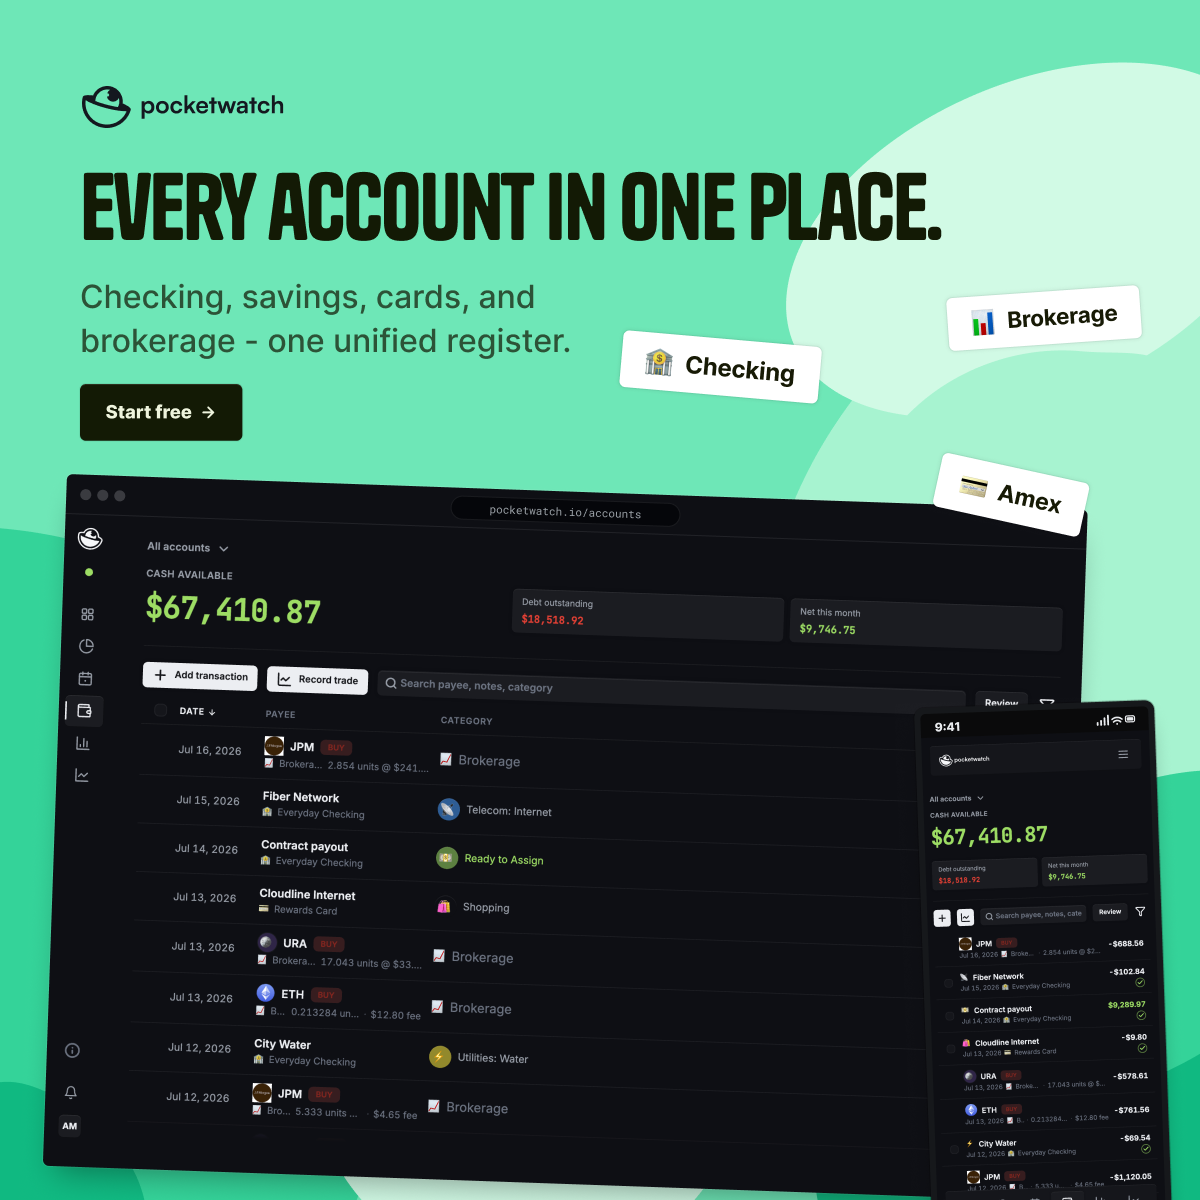
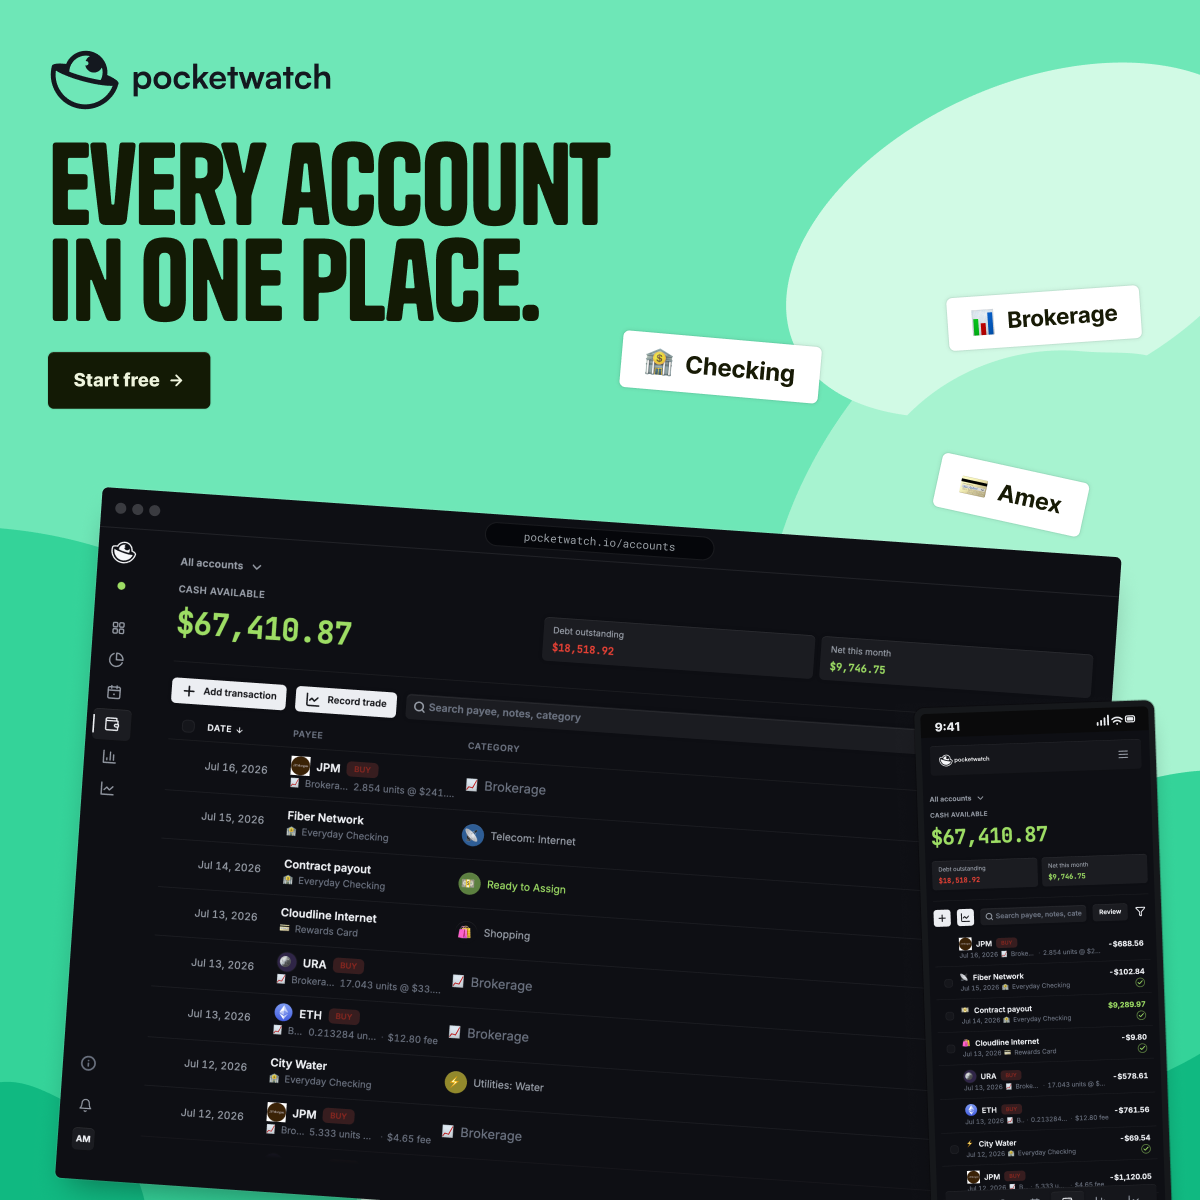
feat: import reworked Pocketwatch ad copy
New V2 exports drop the subheadings — headline, UI, and floating cards
carry each piece. Alt texts updated where they referenced removed copy
(l-both headline tweak, l-invest subhead).

Changed region(s): [[0.0308, 0.0308, 0.9558, 1.0], [0.6783, 0.4933, 0.74, 0.5858], [0.4317, 0.4933, 0.5242, 0.555]]

diff --git a/src/routes/work/pocketwatch/+page.svelte b/src/routes/work/pocketwatch/+page.svelte
@@ -37,7 +37,7 @@
 	heroImage="/images/pocketwatch/hero.png"
 	heroAlt="Pocketwatch — all your money in one place. Dashboard with net worth, investments, and money agenda on electric lime"
 	heroImage2="/images/pocketwatch/hero-invest.png"
-	heroAlt2="Pocketwatch campaign — watch your investments move, stocks and crypto repriced live on violet"
+	heroAlt2="Pocketwatch campaign — watch your investments move, live position tickers on violet"
 	nextProject={getNextProject('pocketwatch')}
 >
 	{#snippet overview()}
@@ -144,7 +144,7 @@
 			{
 				type: 'image',
 				src: '/images/pocketwatch/ad-both.png',
-				alt: 'Pocketwatch campaign — budgeting and investing, one ledger, electric lime'
+				alt: 'Pocketwatch campaign — budgeting and investing in one place, electric lime'
 			},
 			{
 				type: 'image',

diff --git a/src/lib/projects.ts b/src/lib/projects.ts
@@ -324,7 +324,7 @@ export const projects: Project[] = [
 			{
 				src: '/images/pocketwatch/ad-both.png',
 				aspect: 1200 / 628,
-				alt: 'Pocketwatch campaign — budgeting and investing, one ledger, electric lime'
+				alt: 'Pocketwatch campaign — budgeting and investing in one place, electric lime'
 			},
 			{
 				src: '/images/pocketwatch/ad-networth.png',
